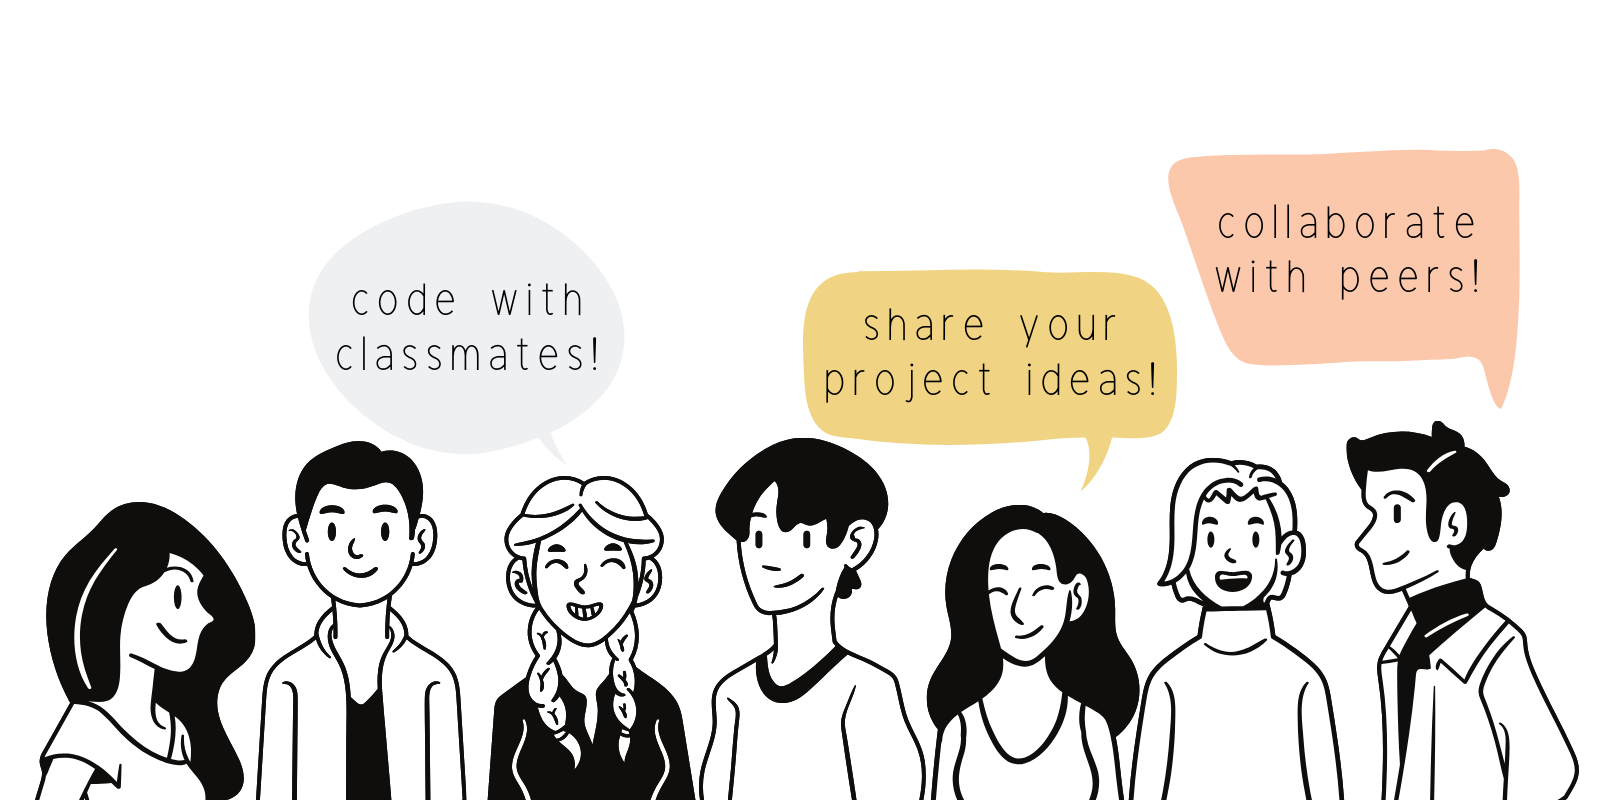
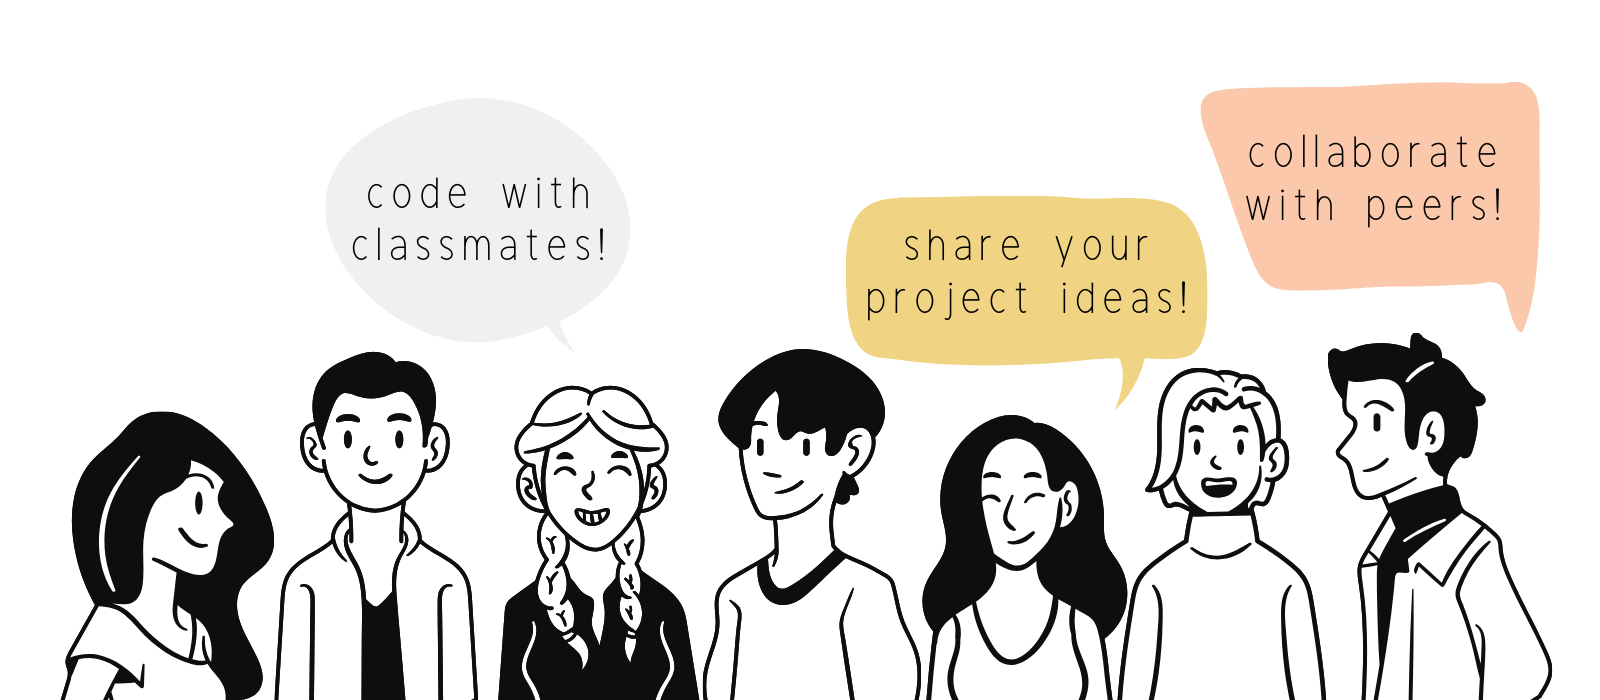
^^++

diff --git a/client/src/views/Home.vue b/client/src/views/Home.vue
@@ -4,7 +4,7 @@
             <div class="logo" cent>
             <br>
             <img class ="logo" src="../assets/home.png"/>
-        </div>
+            </div>
         </header>
         <section class="about-text">
             <b-container class="top">
@@ -30,8 +30,8 @@
 <style scoped>
 
     img.logo {
-        height: 80%;
-        width: 80%;
+        height: 65%;
+        width: 65%;
         display: block;
         margin: 0 auto;
 

diff --git a/client/src/components/SignIn.vue b/client/src/components/SignIn.vue
@@ -3,7 +3,7 @@
             <body>
             <div>
                 <h1 class="brand">CONNECTeD</h1>
-                <h6 class="sub"> JOIN CONNECTeD TODAY </h6>
+                <h6 class="sub"> JOIN US TODAY </h6>
             </div>
             <form class="form">
                 <div id="button">

diff --git a/client/src/components/Footer.vue b/client/src/components/Footer.vue
@@ -4,7 +4,7 @@
 
             <div class="logo-container info">
                 <a>
-                    <b-link href="/home"> <h3>ConnectEd</h3> </b-link>
+                    <b-link href="/home"> <h3>CONNECTeD</h3> </b-link>
                 </a>
             </div>
 

diff --git a/client/src/components/NavBar.vue b/client/src/components/NavBar.vue
@@ -14,7 +14,7 @@
             </b-nav-form>
 
             <div class="logo">
-                <a href="#">CONNECTED</a>
+                <a href="#">CONNECTeD</a>
             </div>
 
             <div class="h2 mb-2 gear-wheel">
